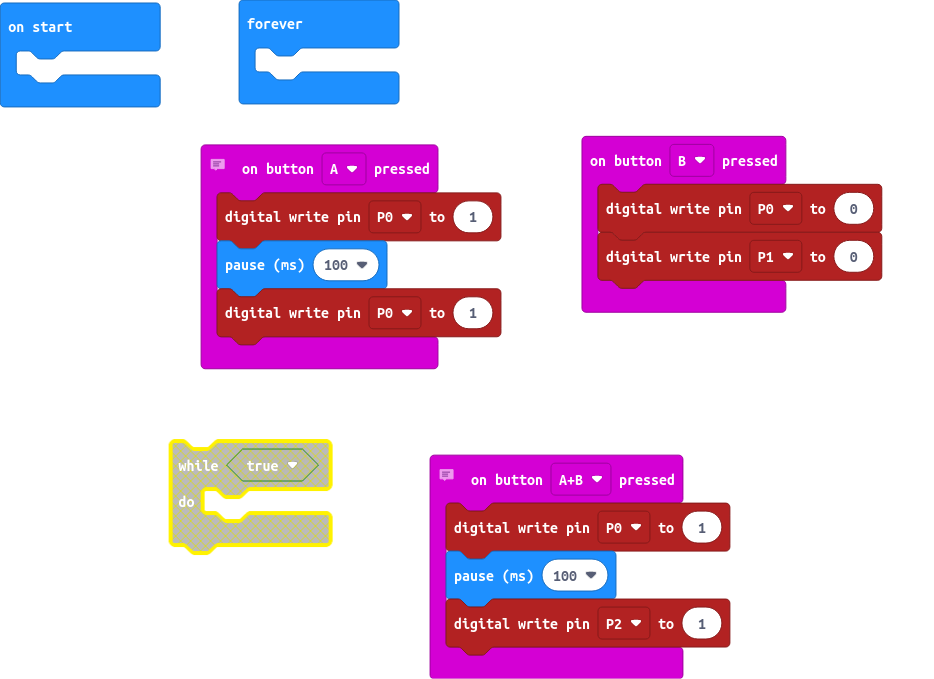
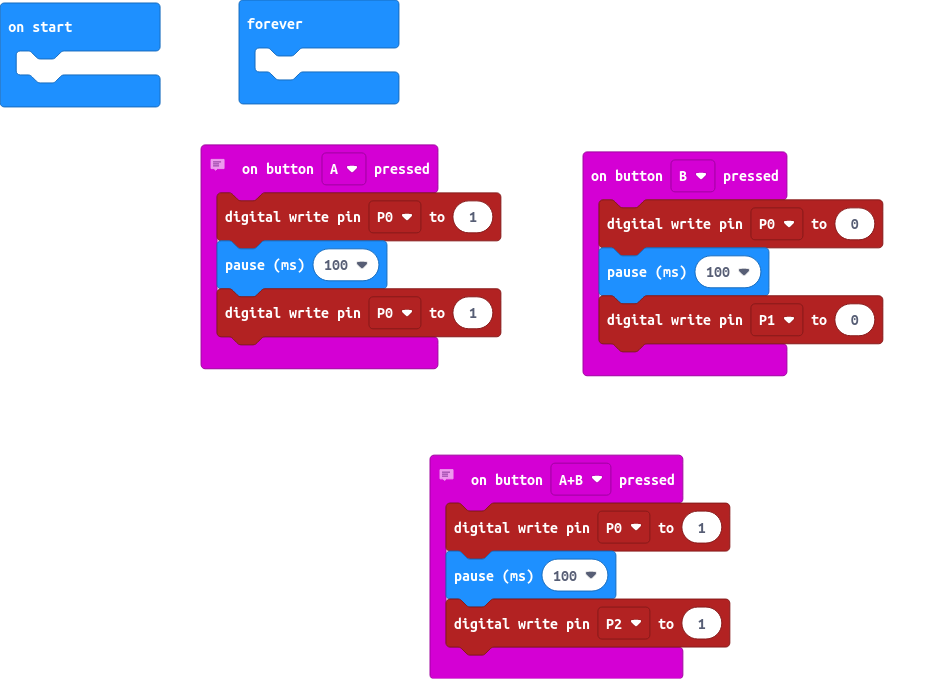
Update main.blocks, main.ts

diff --git a/main.ts b/main.ts
@@ -14,6 +14,7 @@ input.onButtonPressed(Button.AB, function () {
 })
 input.onButtonPressed(Button.B, function () {
     pins.digitalWritePin(DigitalPin.P0, 0)
+    basic.pause(100)
     pins.digitalWritePin(DigitalPin.P1, 0)
 })
 basic.forever(function () {
